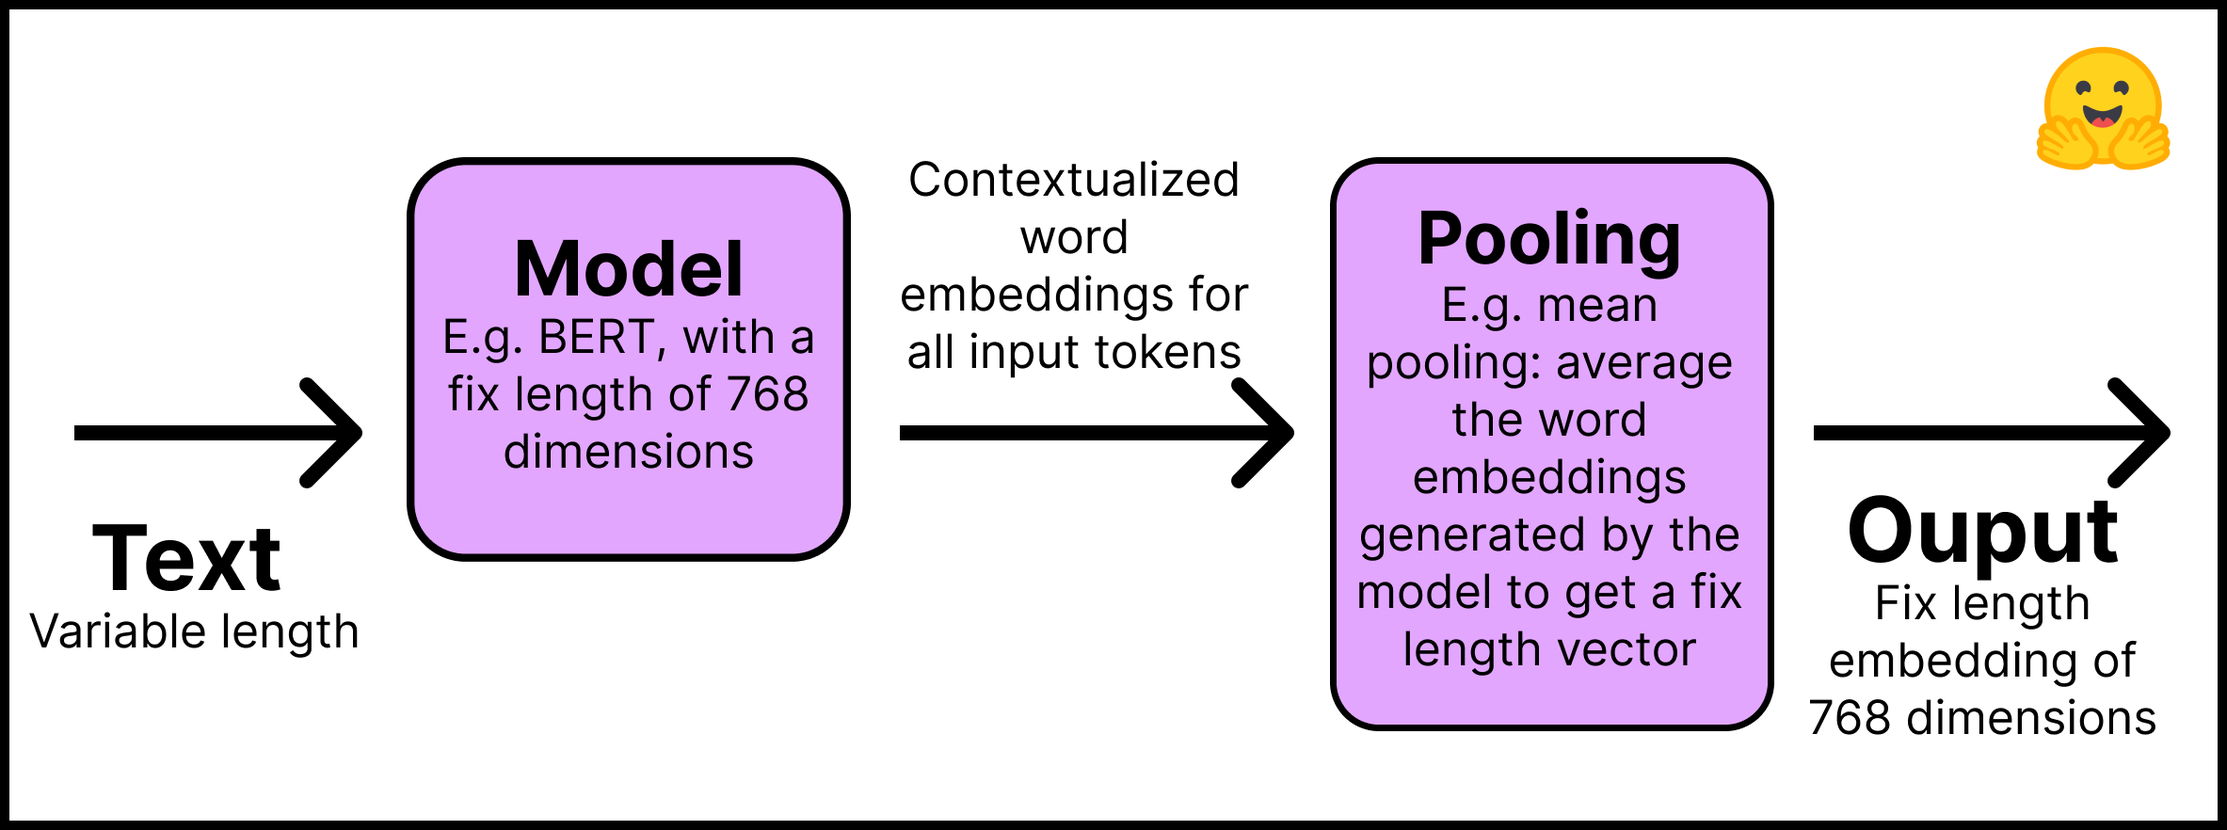
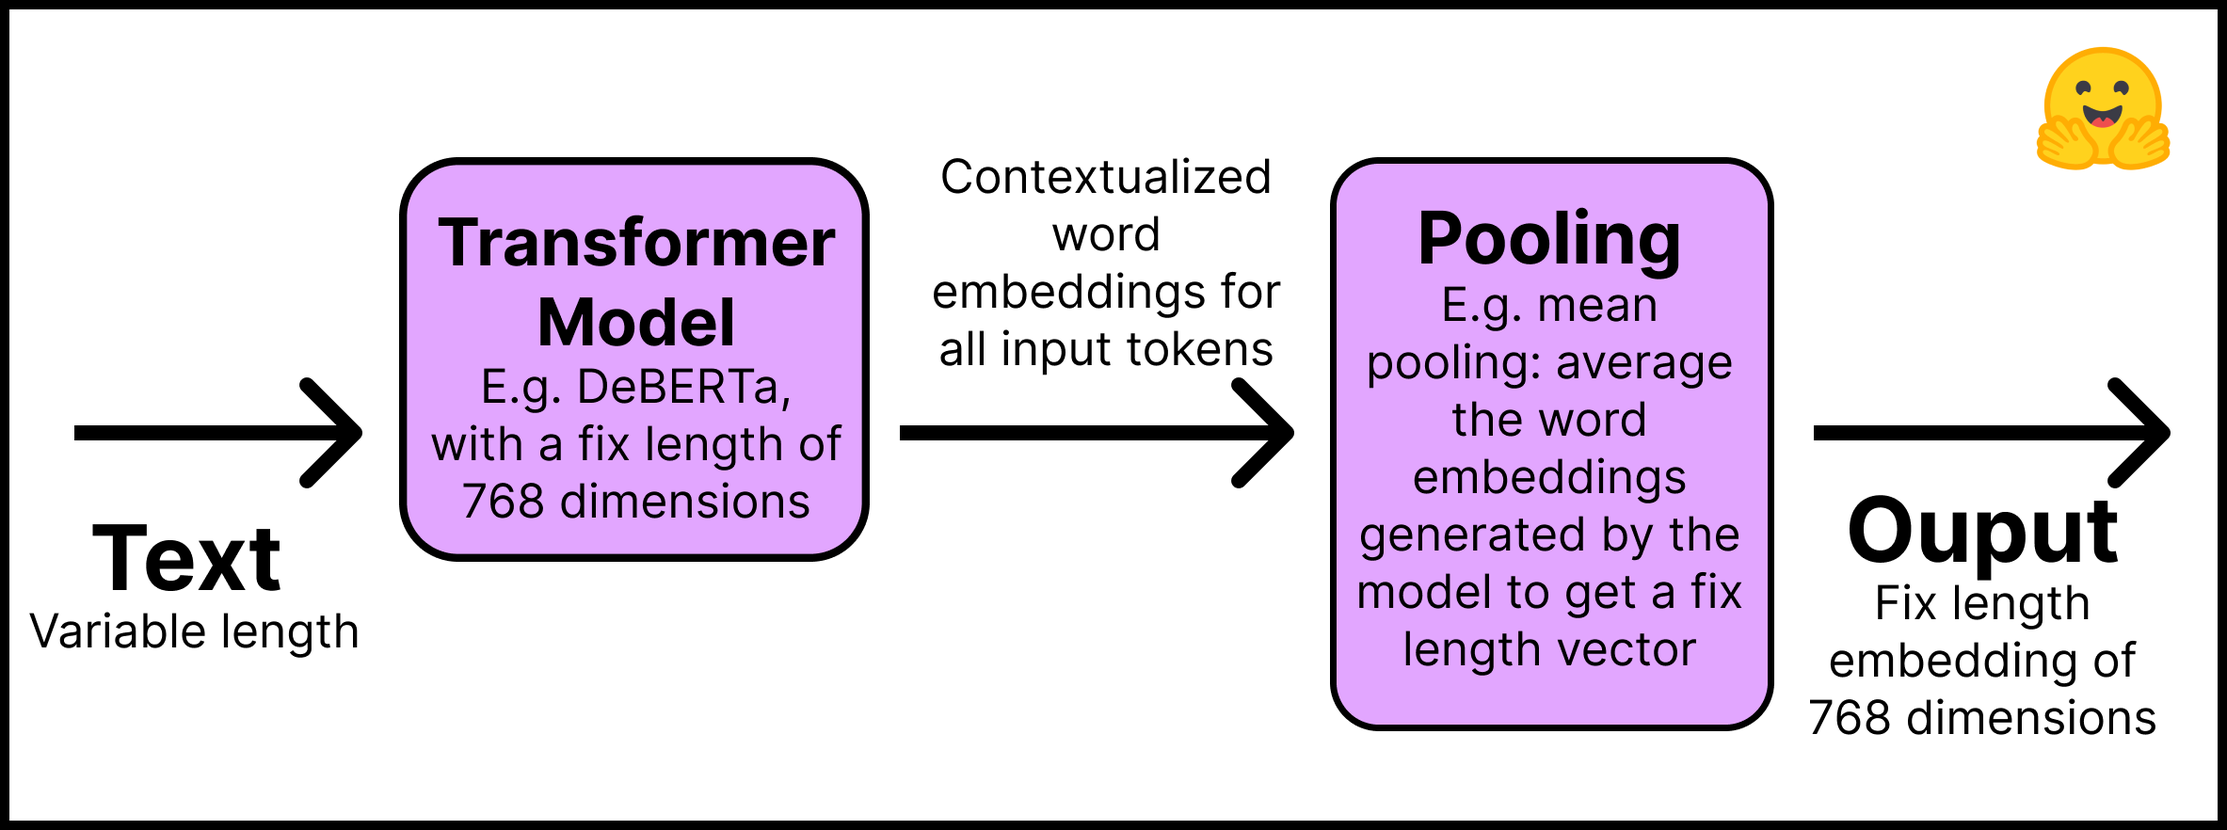
third change

Changed region(s): [[0.1543, 0.1837, 0.5862, 0.6735]]

diff --git a/train-and-fine-tune-sentence-transformers-models.md b/train-and-fine-tune-sentence-transformers-models.md
@@ -8,7 +8,7 @@ thumbnail: /blog/assets/87_training_st_models/thumbnail.png
 </h1>
 
 <div class="blog-metadata">
-    <small>Published July 15, 2022.</small>
+    <small>Published July 18, 2022.</small>
     <a target="_blank" class="btn no-underline text-sm mb-5 font-sans" href="https://github.com/huggingface/blog/blob/main/train-and-fine-tune-sentence-transformers-models.md">
         Update on GitHub
     </a>
@@ -30,27 +30,30 @@ Check out this tutorial with the Notebook Companion:
 </a>
 
 
-Training or fine-tuning a Sentence Transfomer greatly depends on your available data and on your target task. The key is to understand how you can feed data to the model and prepare your dataset accordingly. 
+Training or fine-tuning a Sentence Transformers model highly depends on the available data and the target task. The key is understanding how to feed data into the model and preparing your dataset accordingly.
 
-In this tutorial we will:
+In this tutorial, we will:
 
-1. Understand how Sentence Transformers models work and create ours from "zero".
-2. 
+1. Understand how Sentence Transformers models work. Create one from "scratch" or fine-tune one from the Hugging Face Hub.
+2. Learn the different types of structures your dataset should have.
+3. Review the different loss functions you can choose based on your data structure.
+4. Train or fine-tune your model.
+5. Learn when Sentence Transformers models may not be the best choice.
 
 ## How Sentence Transformers models work
 
-In a Sentence Transformer model we are mapping a variable length text (or image pixels) to a fixed sized embedding representing the meaning of such input. For getting started on embeddings please refer to our [previous tutorial](https://huggingface.co/blog/getting-started-with-embeddings). In this post we will focus on text. 
+In a Sentence Transformer model, we are mapping a variable-length text (or image pixels) to a fixed-size embedding representing that input's meaning. To get started with embeddings, check out our [previous tutorial](https://huggingface.co/blog/getting-started-with-embeddings). In this post, we will focus on text.
 
-This is how Sentence Transformers models work:
+This is how the Sentence Transformers models work:
 
-1. **Layer 1**: The input text passes trough a pre-trained Transformer model that can be obtained directly from the [Hugging Face Hub](https://huggingface.co/models?pipeline_tag=fill-mask&sort=downloads). This tutorial will use the "microsoft/deberta-v3-small" model. The outputs of the Transformer are contextualized word embeddings for all inputs tokens; imagine an embedding for each word of the text.
-2. **Layer 2**: The word embeddings go trough a pooling process to obtain a single fix length embedding for the whole text. For example, mean pooling averages the word embeddings generated by the model.   
+1. **Layer 1** – The input text is passed through a pre-trained Transformer model that can be obtained directly from the [Hugging Face Hub](https://huggingface.co/models?pipeline_tag=fill-mask&sort=downloads). This tutorial will use the "microsoft/deberta-v3-small" model. The Transformer outputs are contextualized word embeddings for all input tokens; imagine an embedding for each word of the text.
+2. **Layer 2**: Word embeddings go through a pooling process to get a single fixed-length embedding for all the text. For example, mean pooling averages the word embeddings generated by the model.
 
-The following image summarizes the process:
+This figure summarizes the process:
 
 ![](assets/87_training_st_models/training_process.png) 
 
-Remember to install the Sentence Transormers library with `pip install -U sentence-transformers`. In code, this two steps process is simple: 
+Remember to install the Sentence Transformers library with `pip install -U sentence-transformers`. In code, this two-step process is simple: 
 
 ```py
 from sentence_transformers import SentenceTransformer, models
@@ -65,14 +68,14 @@ pooling_model = models.Pooling(word_embedding_model.get_word_embedding_dimension
 model = SentenceTransformer(modules=[word_embedding_model, pooling_model])
 ```
 
-From the code above we can see that Sentence Transformers models are composed of modules, i.e. a list of layers which are executed consecutively. The input text enters the first layer and the final output comes from the last layer. The model above is the simplest Sentence Transformer possible, however, we can add additional layers, for example, dense, bag of words, and convolutional.
+From the code above, we can see that Sentence Transformers models are made up of modules, that is, a list of layers that are executed consecutively. The input text enters the first layer, and the final output comes from the last layer. As simple as it looks, the above model is a typical architecture for Sentence Transformers models. If necessary, additional layers can be added, for example, dense, bag of words, and convolutional.
 
-Why not use a Transfomers model, such as BERT or RoBERTa, out of the box to create embeddings for complete sentences and texts? There are at least two reasons. 
+Why not use a Transformer model, like BERT or Roberta, out of the box to create embeddings for entire sentences and texts? There are at least two reasons.
 
-1. Pre-trained Transformers require great computation to perform semantic search tasks. For example, finding the most similar pair in a collection of 10,000 sentences [requires about 50 million inference computations (~65 hours) with BERT](https://arxiv.org/abs/1908.10084). In contrast, a BERT Sentence Transformer model reduces the time to about 5 seconds.
-2. Once trained,Transformers create rather poor sentence representations out-of-the-box.
+1. Pre-trained Transformers require heavy computation to perform semantic search tasks. For example, finding the most similar pair in a collection of 10,000 sentences [requires about 50 million inference computations (~65 hours) with BERT](https://arxiv.org/abs/1908.10084). In contrast, a BERT Sentence Transformers model reduces the time to about 5 seconds.
+2. Once trained, Transformers create poor sentence representations out of the box.
 
-If you only want to fine-tune an existing Sentence Transformers model then you can skip this steps and simply import the model from the Hugging Face Hub:
+If you want to fine-tune an existing Sentence Transformers model, you can skip these steps and import the model from the Hugging Face Hub:
 
 ```py
 from sentence_transformers import SentenceTransformer
@@ -81,28 +84,28 @@ model_id = "sentence-transformers/multi-qa-MiniLM-L6-cos-v1"
 model = SentenceTransformer(model_id)
 ```
 
-Now, the most important part: the structure of the data.
+Now for the most critical part: the data structure.
 
 ## How to prepare your dataset for training a Sentence Transformers model
 
-> "To represent our training data, we use the `InputExample` class to store training examples. As parameters, it accepts texts, which is a list of strings representing our pairs (or triplets). Further, we can also pass a label (either float or int)." - [Sentence Transformers Documentation](https://www.sbert.net/docs/training/overview.html#training-data).
+> "To represent our training data, we use the `InputExample` class to store training examples. As parameters, it accepts texts, a list of strings representing our pairs (or triplets). Further, we can also pass a label (float or int)." - [Sentence Transformers Documentation](https://www.sbert.net/docs/training/overview.html#training-data).
 
-To train a Sentence Transformer model you need to somehow inform it that two sentences have a certain degree of similarity. Thus, each example from our data requires a label or structure that allows the model to understand if two sentences are similar or unsimilar. 
+To train a Sentence Transformers model, you need to inform it somehow that two sentences have a certain degree of similarity. Therefore, each example in our data requires a label or structure that allows the model to understand whether two sentences are similar or different.
 
-Unfortunately, there is not a single way to prepare your data for training a Sentence Transformer model. It highly depends on your goals and structure of your data. If you do not have an explicit label, which is the most likely scenario, you can derive it from the structure of the documents where you derive the sentences. For example, two sentence on the same report ought to be more comparable than two sentences from distinctive reports. Neighboring sentences can to be more comparable than non-neighboring sentences.
+Unfortunately, there is no single way to prepare your data to train a Sentence Transformers model. It largely depends on your goals and the structure of your data. If you don't have an explicit label, which is the most likely scenario, you can derive it from the design of the documents where you obtained the sentences. For example, two sentences in the same report should be more comparable than two sentences in different reports. Neighboring sentences can be more comparable than non-neighboring sentences.
 
-Furthermore, the structure of our data will affect the loss function we can use. In the next session we will review this part.
+Furthermore, the structure of our data will affect the loss function we can use. In the next section, we will review this part.
 
-Most datasets setups will have one of this four forms: 
+Most dataset configurations will take one of four forms:
 
-- Case 1: The example is a pair of sentences and a label indicating how similar they are.
-- Case 2: The example is a pair of positive (similar) sentences **without** a label. For example, pairs of paraphrases, pairs of duplicate questions, pairs of (query, response), or pairs of (source_language, target_language). Natural Language Inference datasets can be formated this way. Having your data in this format can be great since we can use the `MultipleNegativesRankingLoss`, one of the most use lost functions for Sentence Transformers models. 
-- Case 3: The example is a triplet; you have three sentences where the first one is an "anchor", the second a "positive" of the same class as the anchor, and the third a "negative" of a different class. For each sentnce there is an integer label indicating the class to which it belongs.
-- Case 3: Similar to the second case, the example is a triplet (anchor, positive, negative); however, **there is no class** (nor label) for the sentences.
+- Case 1: The example is a pair of sentences and a label indicating how similar they are. **TODO**
+- Case 2: The example is a pair of positive (similar) sentences **without** a label. For example, pairs of paraphrases, pairs of duplicate questions, pairs of (query, response), or pairs of (source_language, target_language). Natural Language Inference datasets can be formatted this way. Having your data in this format can be great since we can use the `MultipleNegativesRankingLoss`, one of the most used lost functions for Sentence Transformers models. 
+- Case 3: The example is a triplet; you have three sentences where the first one is an "anchor", the second a "positive" of the same class as the anchor, and the third a "negative" of a different class. Each sentence has an integer label indicating the class to which it belongs.
+- Case 4: Similar to the third case, the example is a triplet (anchor, positive, negative); however, **there is no class** (nor label) for the sentences.
 
-For each of the above cases there are Datasets in the Hugging Hub. Additionaly, the Datasets in the Hub have a Dataset Preview functionality that allows to visualize datasets before dowloading them. Here are dataset examples for each of these cases:
+There are datasets on the Hugging Face Hub for each of the above cases. Additionally, the datasets in the Hub have a Dataset Preview functionality that allows you to view the structure of datasets before downloading them. Here are sample data sets for each of these cases:
 
-- Case 1: 
+- Case 1: **TODO**
 
 - Case 2: The same setup as for NLI can be used. Review the structure of the [SNLI dataset](https://huggingface.co/datasets/snli). The [Sentence Compression dataset](https://huggingface.co/datasets/embedding-data/sentence-compression) is another example.
 
@@ -110,7 +113,7 @@ For each of the above cases there are Datasets in the Hugging Hub. Additionaly, 
 
 - Case 4: The [Quora Triplets dataset](https://huggingface.co/datasets/embedding-data/QQP_triplets).
 
-The next step is to convert the dataset in a format that our Sentence Transformer model can understand. The model do can not accept a raw lists of Strings. Each example should be converted to a `sentence_transformers.InputExample` class and then to a `torch.utils.data.DataLoader` class to create batches and shuffle the examples. This tutorial will follow the steps in the Notebook Companion:
+The next step is converting the dataset into a format our Sentence Transformers model can understand. The model cannot accept raw lists of strings. Each example must be converted to a `sentence_transformers.InputExample` class and then to a `torch.utils.data.DataLoader` class to batch and shuffle the examples.
 
 Install Hugging Face Datasets with `pip install datasets`. Then import a dataset with the `load_dataset` function:
 
@@ -121,7 +124,7 @@ dataset_id = "embedding-data/QQP_triplets"
 dataset = load_dataset(dataset_id)
 ```
 
-In this case we are using an unlabled triplets dataset, that is, the fourth case above.
+In this case, we are using an unlabeled triplets dataset, the fourth case above.
 
 We can index and explore the Hugging Face datasets easily (see the [Documentation](https://huggingface.co/docs/datasets/index)):
 
@@ -135,9 +138,9 @@ Output:
 ```py
 - The embedding-data/QQP_triplets dataset has 101762 examples.
 - Each example is a <class 'dict'> with a <class 'dict'> as value.
-- Examples look like this: {'set': {'query': 'Why in India do we not have one on one political debate as in USA?', 'pos': ['Why cant we have a public debate between politicians in India like the one in US?'], 'neg': ['Can people on Quora stop India Pakistan debate? We are sick and tired seeing this everyday in bulk?'...]
+- Examples look like this: {'set': {'query': 'Why in India do we not have one on one political debate as in USA?', 'pos': ['Why can't we have a public debate between politicians in India like the one in US?'], 'neg': ['Can people on Quora stop India Pakistan debate? We are sick and tired seeing this everyday in bulk?'...]
 ```
-Convert the examples into `InputExample`'s. For simplicity (1) only one of the negatives in the [embedding-data/QQP_triplets]((https://huggingface.co/datasets/embedding-data/QQP_triplets)) dataset and (2) only 100 examples will be used. We use `tqdm` to get a progress bar.
+Convert the examples into `InputExample`'s. For simplicity, (1) only one of the negatives in the [embedding-data/QQP_triplets]((https://huggingface.co/datasets/embedding-data/QQP_triplets)) dataset, and (2) only 100 examples will be used. We use `tqdm` to get a progress bar.
 
 ```py
 from tqdm.auto import tqdm
@@ -158,50 +161,52 @@ from torch.utils.data import DataLoader
 train_dataloader = DataLoader(train_examples, shuffle=True, batch_size=16)
 ```
 
-The next step is to choose a proper loss function that can be inputed with the current format of our data.
+The next step is to choose a suitable loss function that can be used with the current format of our data.
 
 
 ## Loss functions for training a Sentence Transformers model
 
-Remember the the four different cases in which your data might be? Each will have a different loss function associated with it.
+Remember the four different cases your data could be in? Each will have a different loss function associated with it.
 
-Case 1: Pair of sentences and a label indicating how similar they are. 
+Case 1: Pair of sentences and a label indicating how similar they are. **EVERYBODY**
 
-Case 2: If we had only two similar sentences (two positives) with no labels then we can use the [`MultipleNegativesRankingLoss`](https://www.sbert.net/docs/package_reference/losses.html#multiplenegativesrankingloss) function.
+Case 2: If we only had two similar sentences (two positives) with no labels, then we can use the [`MultipleNegativesRankingLoss`](https://www.sbert.net/docs/package_reference/losses.html#multiplenegativesrankingloss) function.
 
-Case 3: When our example is a triplet of the format `[anchor, positive, negative]` and we have an integer label for each, a loss function optimizes the model such that the anchor and positive sentences are closer in the vector space than the anchor and negative sentences. We can use the [`BatchHardTripletLoss`](https://www.sbert.net/docs/package_reference/losses.html#batchhardtripletloss) which requires that the data is labeled with integers (e.g. labels 1, 2, 3) assuming that samples with the same label are similar. Thus, anchors and positives should have the same label while the negative should have a different one. Alternatively, the [`BatchAllTripletLoss`](https://www.sbert.net/docs/package_reference/losses.html#batchalltripletloss), [`BatchHardSoftMarginTripletLoss`](https://www.sbert.net/docs/package_reference/losses.html#batchhardsoftmargintripletloss), or the [`BatchSemiHardTripletLoss`](https://www.sbert.net/docs/package_reference/losses.html#batchsemihardtripletloss). The differences between them are out of the scope of this tutorial but can be review in the Sentence Transformers documentation.
+Case 3: When our example is a triplet of the form `[anchor, positive, negative]` and we have an integer label for each, a loss function optimizes the model so that the anchor and positive sentences are closer together in vector space than the anchor and negative sentences. We can use [`BatchHardTripletLoss`](https://www.sbert.net/docs/package_reference/losses.html#batchhardtripletloss), which requires the data to be labeled with integers (e.g., labels 1, 2, 3) assuming that samples with the same label are similar. Therefore, anchors and positives must have the same label, while negatives must have a different one. Alternatively, you can use [`BatchAllTripletLoss`](https://www.sbert.net/docs/package_reference/losses.html#batchalltripletloss), [`BatchHardSoftMarginTripletLoss`](https://www.sbert.net/docs/package_reference/loss.html#batchhardsoftmargintripletloss), or [`BatchSemiHardTripletLoss`](https://www.sbert.net/docs/package_reference/losses.html#batchsemihardtripletloss). The differences between them is beyond the scope of this tutorial, but can be reviewed in the Sentence Transformers documentation.
 
-Case 4: If we do not have a label for each sentence in the triplets we should use the [`TripletLoss`](https://www.sbert.net/docs/package_reference/losses.html#tripletloss). This loss minimizes the distance between anchor and positive sentences while maximixing the distance between the anchor and negative sentences. 
+Case 4: If we don't have a label for each sentence in the triplets, we should use [`TripletLoss`](https://www.sbert.net/docs/package_reference/losses.html#tripletloss). This loss minimizes the distance between the anchor and the positive sentences while maximizing the distance between the anchor and the negative sentences.
 
-The most difficult part is conceptually choosing an adequate loss function. In code it is only two lines:
+The hardest part is choosing a suitable loss function conceptually. In the code, there are only two lines:
 
 ```py
 from sentence_transformers import losses
 
 train_loss = losses.TripletLoss(model=model)
 ```
-Once the dataset in the desired format and an adequate loss function is in place, fine-tuning and training a Sentence Transformer is simple.
+Once the dataset is in the desired format and a suitable loss function is in place, fitting and training a Sentence Transformers is simple.
 
 
 ## How to fine-tune a Sentence Transformer model
 
-> "SentenceTransformers was designed in such way that fine-tuning your own sentence / text embeddings models is easy. It provides most of the building blocks that you can stick together to tune embeddings for your specific task." - [Sentence Transformers Documentation](https://www.sbert.net/docs/training/overview.html#training-overview).
+> "SentenceTransformers was designed in such a way that fine-tuning your own sentence / text embeddings models is easy. It provides most of the building blocks that you can stick together to tune embeddings for your specific task." - [Sentence Transformers Documentation](https://www.sbert.net/docs/training/overview.html#training-overview).
 
-For simplicity we are not adding an Evaluator that works on a development subset of the data. However, if we had it would look like this: `evaluator = TripletEvaluator.from_input_examples(dev_examples, name='dev')`.
+For simplicity, we are not adding an Evaluator that works on a development or test subset of the data. However, if we did, it would look like this: `evaluator = TripletEvaluator.from_input_examples(dev_examples, name='dev')`.
 
-This is how training looks: 
+This is what the training or fine-tuning looks like:
 
 ```py
 model.fit(train_objectives=[(train_dataloader, train_loss)], epochs=1) 
 ```
 
-Remember that if you are fine-tuning an existing Sentence Transformers model then you can call the `fit` method directly from it. If it is a brand new Sentence Transformers model then you have to define it first as we did in section "How Sentence Transformers models work."
+Remember that if you are fine-tuning an existing Sentence Transformers model, you can directly call the `fit` method from it. If this is a new Sentence Transformers model, you must first define it as we did in the "How Sentence Transformers models work" section.
 
-That is it!
+That's it; we have a new or improved Sentence Transformers model!
 
-## What are the limis of Sentence Transformers?
 
-Sentence Transformers work amazingly for semantic search. Much better than simple Transformers models. However, where do Sentence Transformers models do not work well? If your task is classification, then using sentence embeddings is in most cases the wrong approach. In that case, [Cross Encoders](https://www.sbert.net/examples/training/cross-encoder/README.html) work much better. Fortunately, you can find these models in the same Sentence Transformers library. Let us know if there is interest in exploring them!
+## What are the limits of Sentence Transformers?
 
+Sentence Transformers works amazingly for semantic search. Much better than the simple Transformers models. However, where do the Sentence Transformers models not work well? If your task is classification, then using sentence embeddings is the wrong approach. In that case, [Cross Encoders](https://www.sbert.net/examples/training/cross-encoder/README.html) work much better. Fortunately, you can find these models in the same Sentence Transformers library. 
+
+Let us know if there is interest in exploring them!
 
 Thanks for reading!
